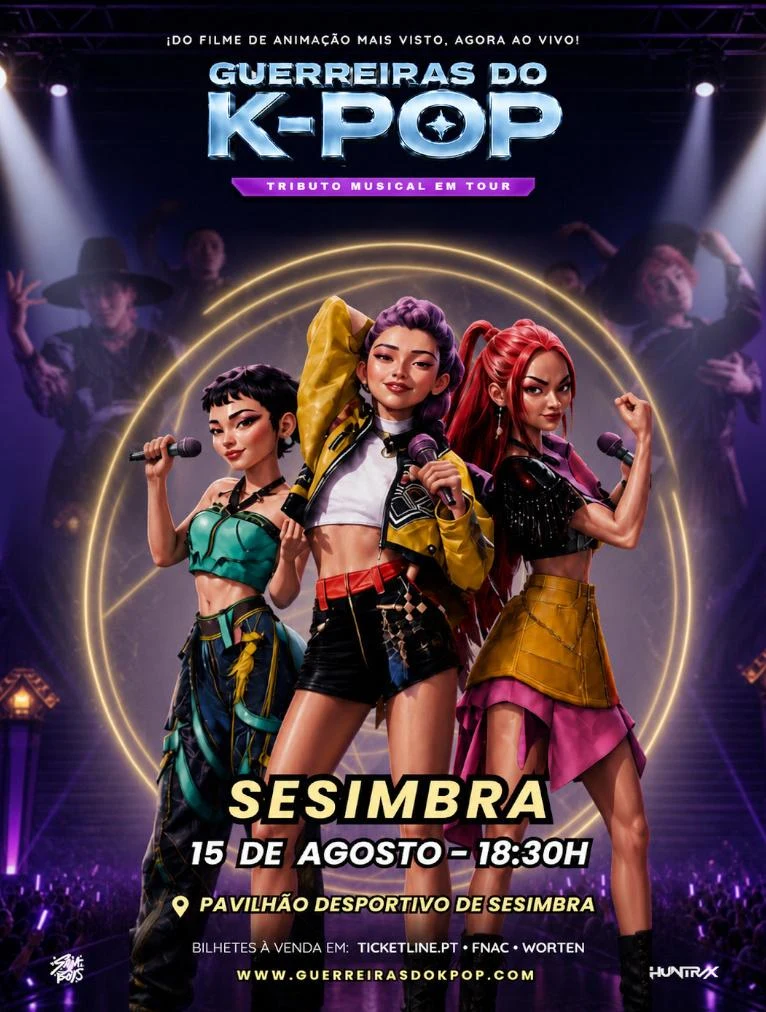
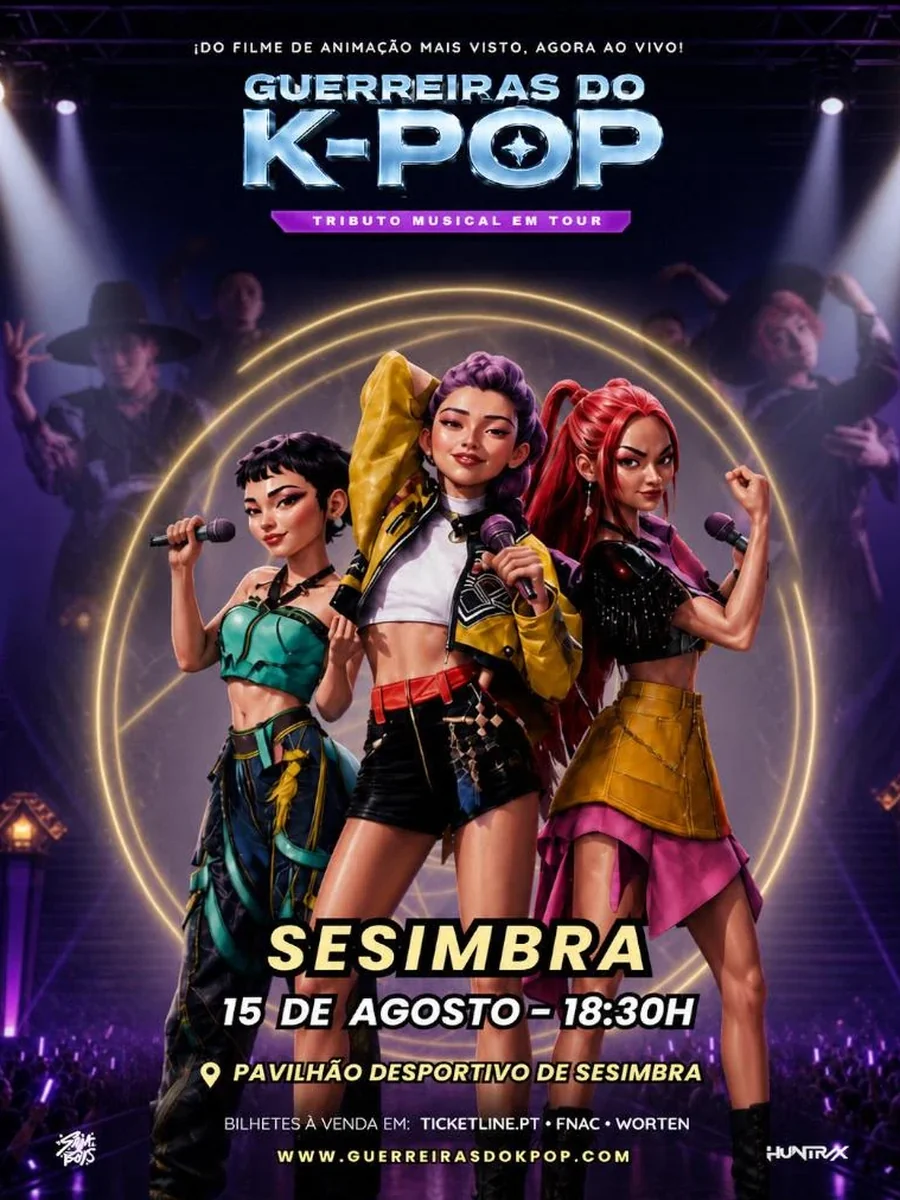
Cartazes: CORREÇÃO DEFINITIVA - 3 cartazes EXATAMENTE do mesmo tamanho
PROBLEMA (crucial):
As 3 imagens dos cartazes tinham dimensões completamente diferentes:
- Cascais: 1240x1748 (aspect 0.709)
- Caparica: 1054x1492 (aspect 0.706) + 2.7MB PNG
- Sesimbra: 766x1012 (aspect 0.757)
Aspect ratios diferentes causavam tamanhos visuais diferentes, mesmo com CSS aspect-ratio.

SOLUÇÃO DEFINITIVA:
- As 3 imagens foram RECORTADAS (center-crop) para EXATAMENTE 900x1200 (3:4)
- Todas otimizadas para WebP (redução massiva):
  * Cascais: 192KB -> 127KB
  * Caparica: 2765KB -> 183KB (93% redução!)
  * Sesimbra: 135KB -> 135KB
- Caparica: .png -> .webp (atualizado no JSX)
- Antigas guardadas como *-old-bak.*

Agora é IMPOSSÍVEL os cartazes terem tamanhos diferentes:
- Mesmas dimensões exatas (900x1200)
- Mesmo aspect ratio (0.750 = 3:4)
- Mesmo formato (WebP)
- Mesma classe CSS (cartaz-secondary)
- Mesmo aspect-ratio CSS (3/4)
- Mesmo object-fit (cover)

diff --git a/src/app/page.tsx b/src/app/page.tsx
@@ -1038,7 +1038,7 @@ export default function HomePage() {
               <Rv delay={275}>
                 <article className="cartaz-card cartaz-secondary">
                   <div className="cartaz-img-wrap">
-                    <img src="/poster-caparica.png" alt="Cartaz Costa da Caparica - Guerreiras do K-Pop" className="cartaz-img" loading="lazy" decoding="async" />
+                    <img src="/poster-caparica.webp" alt="Cartaz Costa da Caparica - Guerreiras do K-Pop" className="cartaz-img" loading="lazy" decoding="async" />
                     <div className="cartaz-overlay"/>
                     <div className="cartaz-tag cartaz-tag-soon">Em breve</div>
                   </div>
